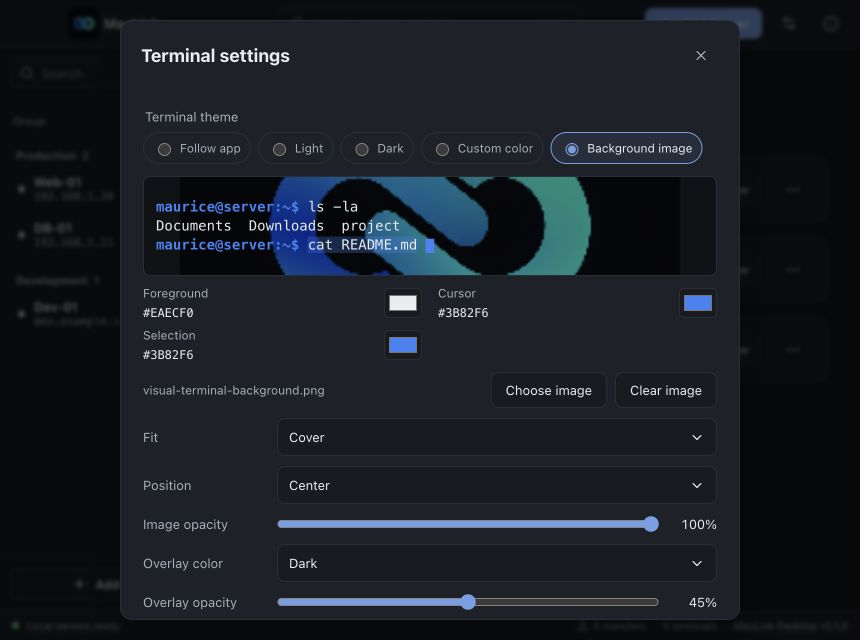
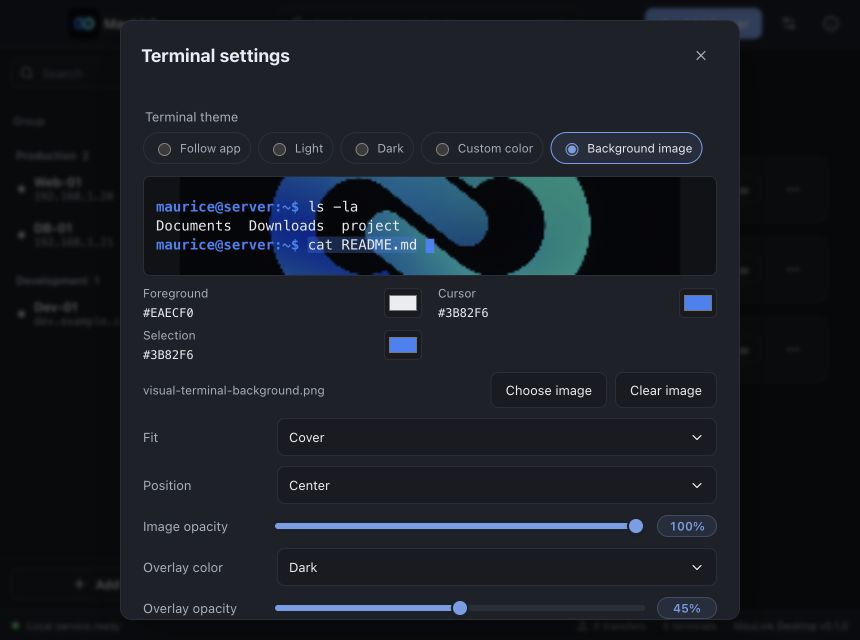
美化终端设置滑块样式
为图片不透明度、遮罩强度和背景模糊统一自定义轨道与圆形拖柄，增加键盘焦点反馈和数值标签。更新四种主题与语言组合的 Web 视觉基线，并验证重复截图一致。

diff --git a/frontend/src/dialogs/TerminalSettingsDialog.vue b/frontend/src/dialogs/TerminalSettingsDialog.vue
@@ -87,6 +87,10 @@ async function save() {
   emit('close');
 }
 function opacityLabel(value: number) { return `${value}%`; }
+function rangeProgress(value: number, min: number, max: number) {
+  const progress = Math.min(100, Math.max(0, ((value - min) / (max - min)) * 100));
+  return `${progress}%`;
+}
 </script>
 <template>
   <BaseDialog :open="open" :title="t('terminalSettings')" :busy="preferences.busy.value || imageBusy" panel-class="terminal-settings-dialog" @close="close">
@@ -100,10 +104,10 @@ function opacityLabel(value: number) { return `${value}%`; }
           <div class="terminal-background-actions"><span class="terminal-background-name" :title="backgroundName">{{ backgroundName || t('noImageSelected') }}</span><BaseButton type="button" @click="chooseImage">{{ t('chooseImage') }}</BaseButton><BaseButton type="button" :disabled="!backgroundSettings.imageId" @click="clearImage">{{ t('clearImage') }}</BaseButton></div>
           <BaseSelect class="terminal-settings-row terminal-settings-select" v-model="backgroundSettings.fit" :label="t('imageFit')" :options="[{value:'cover',label:t('fitCover')},{value:'contain',label:t('fitContain')},{value:'stretch',label:t('fitStretch')},{value:'original',label:t('fitOriginal')},{value:'tile',label:t('fitTile')}]" />
           <BaseSelect class="terminal-settings-row terminal-settings-select" v-model="backgroundSettings.position" :label="t('imagePosition')" :options="[{value:'center',label:t('positionCenter')},{value:'top',label:t('positionTop')},{value:'bottom',label:t('positionBottom')},{value:'left',label:t('positionLeft')},{value:'right',label:t('positionRight')}]" />
-          <label class="terminal-background-range"><span>{{ t('imageOpacity') }}</span><input v-model.number="backgroundSettings.imageOpacity" type="range" min="10" max="100" step="1" /><output>{{ opacityLabel(backgroundSettings.imageOpacity) }}</output></label>
+          <label class="terminal-background-range"><span>{{ t('imageOpacity') }}</span><input v-model.number="backgroundSettings.imageOpacity" type="range" min="10" max="100" step="1" :style="{ '--range-progress': rangeProgress(backgroundSettings.imageOpacity, 10, 100) }" /><output>{{ opacityLabel(backgroundSettings.imageOpacity) }}</output></label>
           <BaseSelect class="terminal-settings-row terminal-settings-select" v-model="backgroundSettings.overlayKind" :label="t('overlayKind')" :options="[{value:'dark',label:t('overlayDark')},{value:'light',label:t('overlayLight')}]" />
-          <label class="terminal-background-range"><span>{{ t('overlayOpacity') }}</span><input v-model.number="backgroundSettings.overlayOpacity" type="range" min="0" max="90" step="1" /><output>{{ opacityLabel(backgroundSettings.overlayOpacity) }}</output></label>
-          <label class="terminal-background-range"><span>{{ t('backgroundBlur') }}</span><input v-model.number="backgroundSettings.blurPx" type="range" min="0" max="16" step="1" /><output>{{ backgroundSettings.blurPx }}px</output></label>
+          <label class="terminal-background-range"><span>{{ t('overlayOpacity') }}</span><input v-model.number="backgroundSettings.overlayOpacity" type="range" min="0" max="90" step="1" :style="{ '--range-progress': rangeProgress(backgroundSettings.overlayOpacity, 0, 90) }" /><output>{{ opacityLabel(backgroundSettings.overlayOpacity) }}</output></label>
+          <label class="terminal-background-range"><span>{{ t('backgroundBlur') }}</span><input v-model.number="backgroundSettings.blurPx" type="range" min="0" max="16" step="1" :style="{ '--range-progress': rangeProgress(backgroundSettings.blurPx, 0, 16) }" /><output>{{ backgroundSettings.blurPx }}px</output></label>
         </section>
         <div v-else class="terminal-preview" role="img" :aria-label="t('terminalPreview')" :style="{ backgroundColor: previewAppearance.theme.background, color: previewAppearance.theme.foreground, fontFamily: font, fontSize: `${size}px`, lineHeight: defaultSettings.terminalLineHeight }"><div><span class="terminal-preview-prompt" :style="{ color: previewAppearance.theme.cursor }">maurice@server:~$</span> ls -la</div><div>Documents&nbsp; Downloads&nbsp; project</div><div><span class="terminal-preview-prompt" :style="{ color: previewAppearance.theme.cursor }">maurice@server:~$</span> <span class="terminal-preview-selection" :style="{ backgroundColor: previewAppearance.theme.selectionBackground }">cat README.md</span> <span class="terminal-preview-cursor" :style="{ color: previewAppearance.theme.cursor }">█</span></div></div>
         <label class="terminal-settings-row"><span>{{ t('fontSize') }}</span><input class="base-input" v-model.number="size" type="number" min="8" max="72" step="1" required /></label>

diff --git a/frontend/src/styles/terminal.css b/frontend/src/styles/terminal.css
@@ -60,9 +60,20 @@
 .terminal-background-empty { color: var(--color-text-secondary); font-size: 12px; }
 .terminal-background-actions { display: flex; flex-wrap: wrap; align-items: center; gap: 8px; }
 .terminal-background-name { flex: 1 1 150px; min-width: 0; overflow: hidden; color: var(--color-text-secondary); font-size: 12px; text-overflow: ellipsis; white-space: nowrap; }
-.terminal-background-range { display: grid !important; grid-template-columns: 120px minmax(0, 1fr) 48px; gap: 12px !important; color: var(--color-text-secondary); }
-.terminal-background-range input { width: 100%; accent-color: var(--color-primary); }
-.terminal-background-range output { color: var(--color-text-primary); font-variant-numeric: tabular-nums; text-align: right; }
+.terminal-background-range { display: grid !important; grid-template-columns: 120px minmax(0, 1fr) 60px; gap: 12px !important; color: var(--color-text-secondary); }
+.terminal-background-range input[type="range"] { width: 100%; height: 24px; margin: 0; padding: 0; appearance: none; -webkit-appearance: none; background: transparent; cursor: pointer; touch-action: pan-y; }
+.terminal-background-range input[type="range"]::-webkit-slider-runnable-track { height: 6px; border-radius: 999px; background: linear-gradient(90deg, var(--color-primary) var(--range-progress), var(--color-border) var(--range-progress)); }
+.terminal-background-range input[type="range"]::-webkit-slider-thumb { width: 18px; height: 18px; margin-top: -6px; appearance: none; -webkit-appearance: none; border: 2px solid var(--color-surface-elevated); border-radius: 50%; background: var(--color-primary); box-shadow: 0 1px 3px var(--color-shadow); transition: transform var(--motion-fast) var(--ease-standard), box-shadow var(--motion-fast) var(--ease-standard); }
+.terminal-background-range input[type="range"]::-moz-range-track { height: 6px; border-radius: 999px; background: var(--color-border); }
+.terminal-background-range input[type="range"]::-moz-range-progress { height: 6px; border-radius: 999px; background: var(--color-primary); }
+.terminal-background-range input[type="range"]::-moz-range-thumb { width: 14px; height: 14px; border: 2px solid var(--color-surface-elevated); border-radius: 50%; background: var(--color-primary); box-shadow: 0 1px 3px var(--color-shadow); transition: transform var(--motion-fast) var(--ease-standard), box-shadow var(--motion-fast) var(--ease-standard); }
+.terminal-background-range input[type="range"]:focus-visible { outline: none; box-shadow: none; }
+.terminal-background-range input[type="range"]:hover::-webkit-slider-thumb, .terminal-background-range input[type="range"]:active::-webkit-slider-thumb { transform: scale(1.12); }
+.terminal-background-range input[type="range"]:hover::-moz-range-thumb, .terminal-background-range input[type="range"]:active::-moz-range-thumb { transform: scale(1.12); }
+.terminal-background-range input[type="range"]:focus-visible::-webkit-slider-thumb { box-shadow: 0 0 0 4px var(--color-focus-ring), 0 1px 3px var(--color-shadow); }
+.terminal-background-range input[type="range"]:focus-visible::-moz-range-thumb { box-shadow: 0 0 0 4px var(--color-focus-ring), 0 1px 3px var(--color-shadow); }
+.terminal-background-range input[type="range"]:disabled { cursor: not-allowed; opacity: .56; }
+.terminal-background-range output { justify-self: end; min-width: 60px; box-sizing: border-box; padding: 3px 8px; border: 1px solid var(--color-primary-border); border-radius: 999px; color: var(--color-primary); background: var(--color-primary-soft); font-size: 12px; font-weight: 600; font-variant-numeric: tabular-nums; text-align: center; }
 .terminal-warning span { display: block; }
 .terminal-preview-prompt, .terminal-preview-cursor { font-weight: 600; }
 .terminal-preview-selection { border-radius: 2px; }
